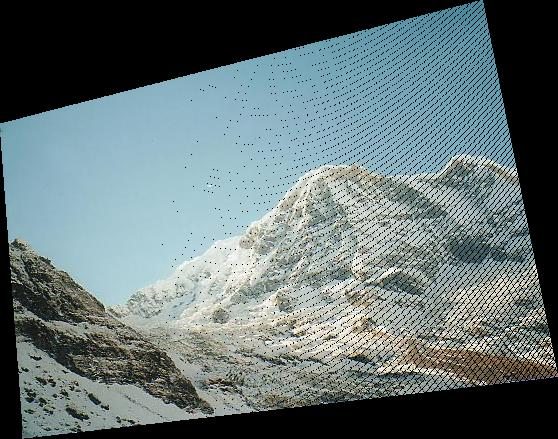
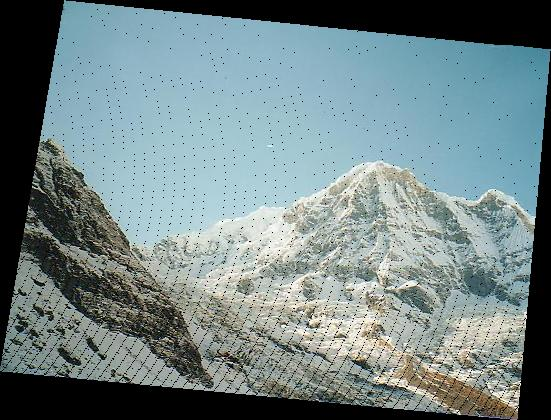
Add Merge feature and access bug fix

diff --git a/src/Homograph_paramters.py b/src/Homograph_paramters.py
@@ -72,15 +72,15 @@ def calcH(pts):
 	#solve equation
 	h = np.linalg.lstsq(A, b)[0];
 
-	for i in range(0,n):
-		iniPoint = np.array([[getStartX(pts, i)], [getStartY(pts, i)], [1]]);
-		print(' point ' + str(i) + '\n\t'+ str(np.array([[getEndX(pts, i)], [getEndY(pts, i)], [1]])) + '\n\t' + str(transform(iniPoint, h)));
+#	for i in range(0,n):
+#		iniPoint = np.array([[getStartX(pts, i)], [getStartY(pts, i)], [1]]);
+#		print(' point ' + str(i) + '\n\t'+ str(np.array([[getEndX(pts, i)], [getEndY(pts, i)], [1]])) + '\n\t' + str(transform(iniPoint, h)));
 #	print('shapes for A, h, b, reconstructed ' + str(A.shape) + str(h.shape) + str(b.shape) + str(reconstructedB.shape));
 	return h;
 
 #========================== NEW WRAP IMAGE
 
-def wrapImage(sourceImage , h):
+def wrapAndMergeImage(sourceImage , h, refImage):
 	# here we return new sourceImage with (2*width,2*height), and transform our image into destination .. with interpolating
 	height = sourceImage.shape[0];
 	width = sourceImage.shape[1];
@@ -90,14 +90,15 @@ def wrapImage(sourceImage , h):
 	max_mapped_i = max_mapped_j = int(-100000);
 
 	# calculate bounds of new image
+	print('Image A size ' + str(sourceImage.shape));
 
 	for i in range(0,height):
 		for j in range(0, width):
 			# perform multiplication	TODO add width,heigh shift
-			mappedPos = transform(np.array([[i],[j],[1]]), h);
+			mappedPos = transform(np.array([[j],[i],[1]]), h);
 			# let's
-			mapped_i = int(mappedPos[0][0])
-			mapped_j = int(mappedPos[1][0])
+			mapped_j = int(mappedPos[0][0])
+			mapped_i = int(mappedPos[1][0])
 			# update bounding box!
 			if mapped_i < min_mapped_i:
 				min_mapped_i = mapped_i
@@ -114,15 +115,22 @@ def wrapImage(sourceImage , h):
 	shiftHeight = - min_mapped_i;
 	shiftWidth = - min_mapped_j;
 
+	print('Bounds ' + str(min_mapped_i) + ' ' + str(max_mapped_i) + ' ' + str(min_mapped_j) + ' ' + str(max_mapped_j));
+	print('shiftHeight ' + str(shiftHeight));
+	print('shiftWidth ' + str(shiftWidth));
+
+
 	destinationImage = np.zeros((newHeight,newWidth,3), dtype=np.uint8);
+
+	print('Destination image size ' + str(destinationImage.shape))
 
 	# write to the new image!
 
 	for i in range(0,height):
 		for j in range(0, width):
-			mappedPos = transform(np.array([[i],[j],[1]]), h);
-			mapped_i = int(mappedPos[0][0])
-			mapped_j = int(mappedPos[1][0])
+			mappedPos = transform(np.array([[j],[i],[1]]), h);
+			mapped_j = int(mappedPos[0][0])
+			mapped_i = int(mappedPos[1][0])
 			destinationImage[mapped_i+shiftHeight][mapped_j+shiftWidth] = sourceImage[i][j];
 
 	im = Image.fromarray(destinationImage)
@@ -134,14 +142,39 @@ def wrapImage(sourceImage , h):
 			# may be done in more neat way!
 			if int(destinationImage[i][j][0]) == 0 and int(destinationImage[i][j][1]) == 0 and int(destinationImage[i][j][2]) == 0:
 				# it's black let's get back to it's inverse!
-				inv_mapped_pos = InvTransform(np.array([[(i - shiftHeight)],[(j - shiftWidth)],[1]]), h)
-				inv_mapped_i = inv_mapped_pos[0][0]
-				inv_mapped_j = inv_mapped_pos[1][0]
+				inv_mapped_pos = InvTransform(np.array([[(j - shiftWidth)], [(i - shiftHeight)],[1]]), h)
+				inv_mapped_j = inv_mapped_pos[0][0]
+				inv_mapped_i = inv_mapped_pos[1][0]
 				if int(inv_mapped_i) < height and  int(inv_mapped_i) > -1 and  int(inv_mapped_j) < width and  int(inv_mapped_j) > -1:
 					destinationImage[i][j] = sourceImage[int(inv_mapped_i)][int(inv_mapped_j)]
 
 	im = Image.fromarray(destinationImage)
 	im.save("without_holes.jpg")
+
+
+
+	# merge original image!
+	ref_image_height = refImage.shape[0]
+	ref_image_width = refImage.shape[1]
+
+	print('Ref-image size ' + str(refImage.shape))
+	mergedImage = np.zeros((newHeight + shiftHeight, newWidth + shiftWidth, 3), dtype=np.uint8);
+
+	# sketch the reference image
+	for i in range(0,ref_image_height):
+		for j in range(0, ref_image_width):
+#			if not( i+ shiftHeight < newHeight and j + shiftWidth < newWidth):
+			mergedImage[i + shiftHeight][j + shiftWidth] = refImage[i][j]
+
+	# sketch the destination image
+	for i in range(0,newHeight):
+		for j in range(0, newWidth):
+			if not( int(destinationImage[i][j][0]) == 0 and int(destinationImage[i][j][0]) == 0 and int(destinationImage[i][j][2]) == 0 ):
+				mergedImage[i][j] = destinationImage[i][j]
+
+	im = Image.fromarray(mergedImage)
+	im.save("after_add_ref_image.jpg")
+
 	return destinationImage;
 
 def main():
@@ -156,7 +189,7 @@ def main():
 #	print(pts);
 	h = calcH(pts);
 #	print('H :' + str(h));
-	print(imageA);
+#	print(imageA);
 	#wrapping
-	wrapImage(imageA, h);
+	wrapAndMergeImage(imageA, h, imageB);
 main();

diff --git a/src/get_correspondence.py b/src/get_correspondence.py
@@ -1,23 +1,27 @@
-import cv2
 import matplotlib.pyplot as plt
 import numpy as np
 import matplotlib.image as mpimg
 
 # Manually identifies corresponding points from two views
 def getCorrespondence(imageA, imageB):
-	# Display images, select matching points
-	fig = plt.figure()
-	figA = fig.add_subplot(1,2,1)
-	figB = fig.add_subplot(1,2,2)
-	# Display the image
-	# lower use to flip the image
-	figA.imshow(imageA)#,origin='lower')
-	figB.imshow(imageB)#,origin='lower')
-	plt.axis('image')
-	# n = number of points to read
+	getAuto = int(1);
 	num = 20;
-	pts = plt.ginput(n=num, timeout=0)
-#	print(pts);
+	if(getAuto == 0):
+		# Display images, select matching points
+		fig = plt.figure()
+		figA = fig.add_subplot(1,2,1)
+		figB = fig.add_subplot(1,2,2)
+		# Display the image
+		# lower use to flip the image
+		figA.imshow(imageA)#,origin='lower')
+		figB.imshow(imageB)#,origin='lower')
+		plt.axis('image')
+		# n = number of points to read
+		pts = plt.ginput(n=num, timeout=0)
+		print(pts);
+		pts = np.reshape(pts, (2, num/2, 2))
+		return pts
+	pts = np.array([(290.99673461310101, 168.49247971502086), (351.77211557490591, 132.47743914506236), (381.03433603799715, 139.23025925192962), (455.31535721353646, 161.7396596081536), (471.07193746289317, 148.23401939441919), (511.58885810409652, 175.24529982188801), (507.08697803285168, 359.82238274292507), (403.54373639422113, 319.30546210172179), (390.03809618048672, 341.81486245794582), (290.99673461310101, 359.82238274292507), (5.9867999208391893, 139.23025925192951), (80.267821096378498, 109.96803878883827), (107.27910152384732, 121.22273896695026), (177.05824262814178, 161.73965960815349), (195.06576291312103, 148.23401939441908), (224.32798337621227, 175.2452998218879), (208.57140312685544, 353.06956263605764), (98.275341381357748, 303.54888185236484), (82.518761132000918, 326.05828220858882), (3.7358598852168825, 353.06956263605764)])
 	pts = np.reshape(pts, (2, num/2, 2))
 	return pts
 
